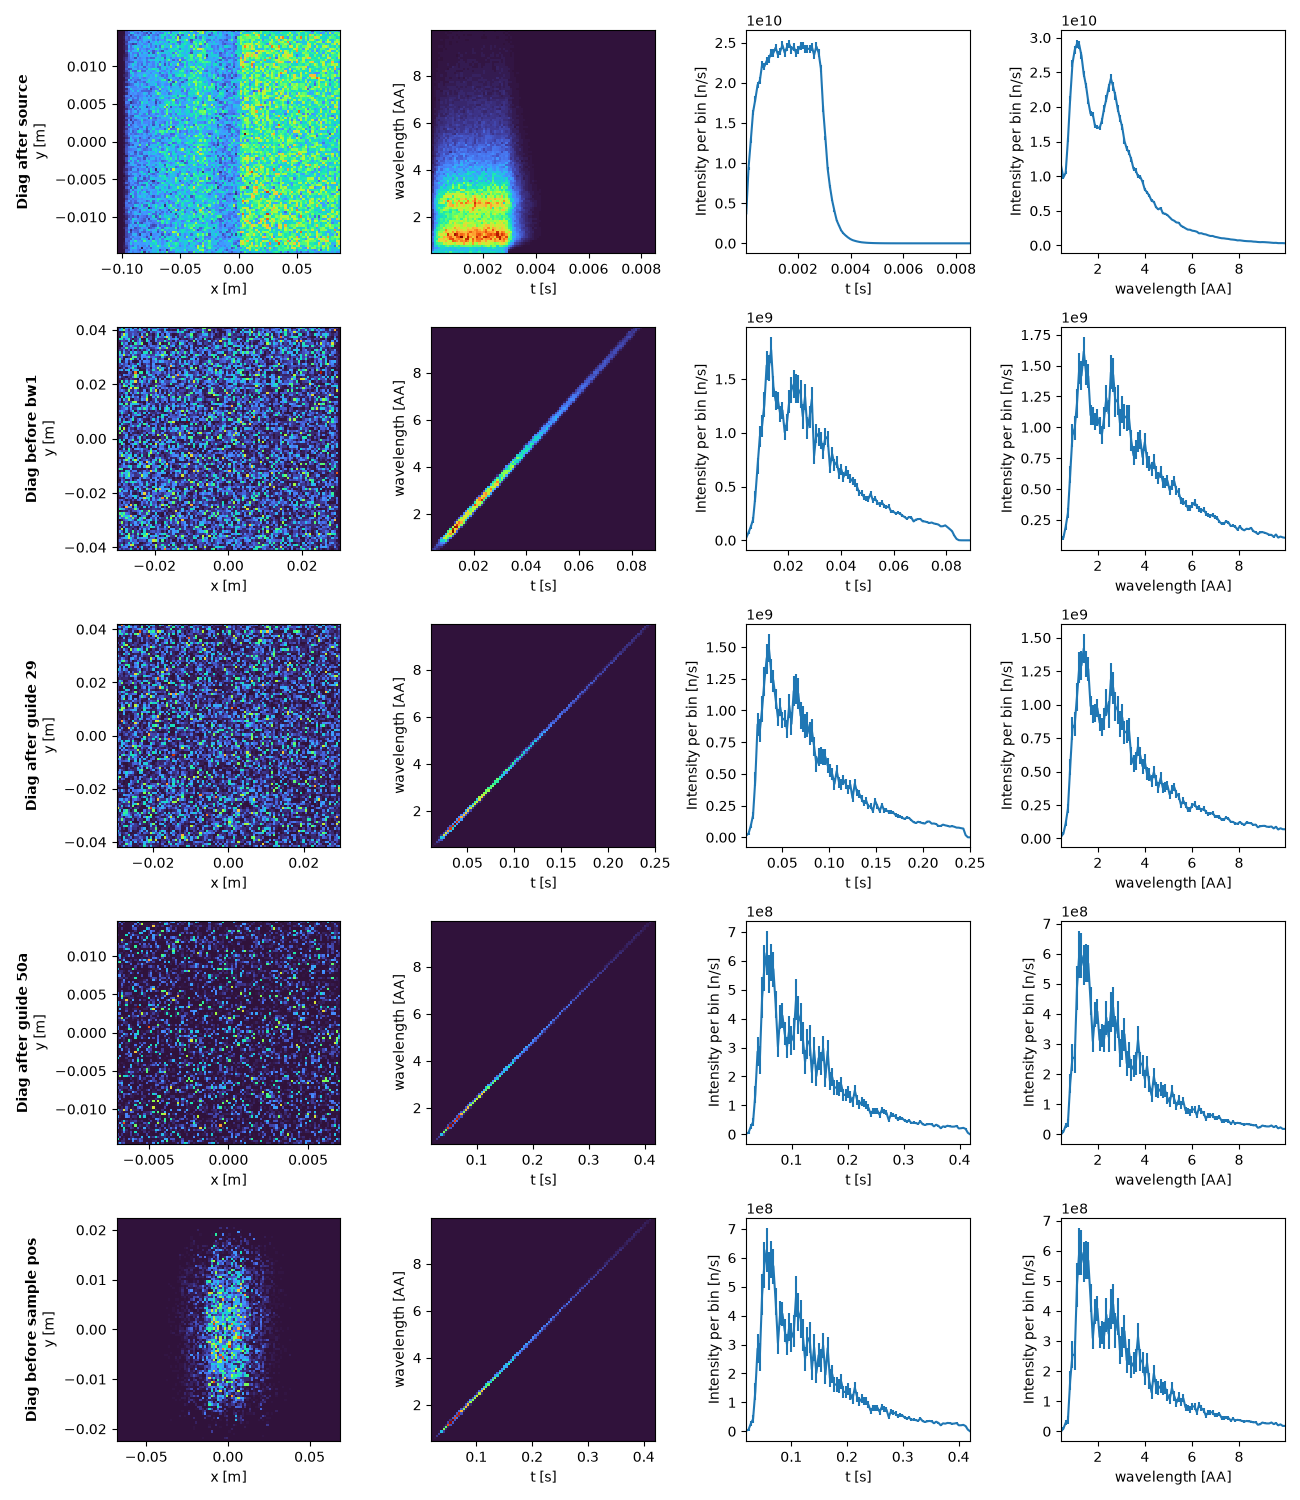
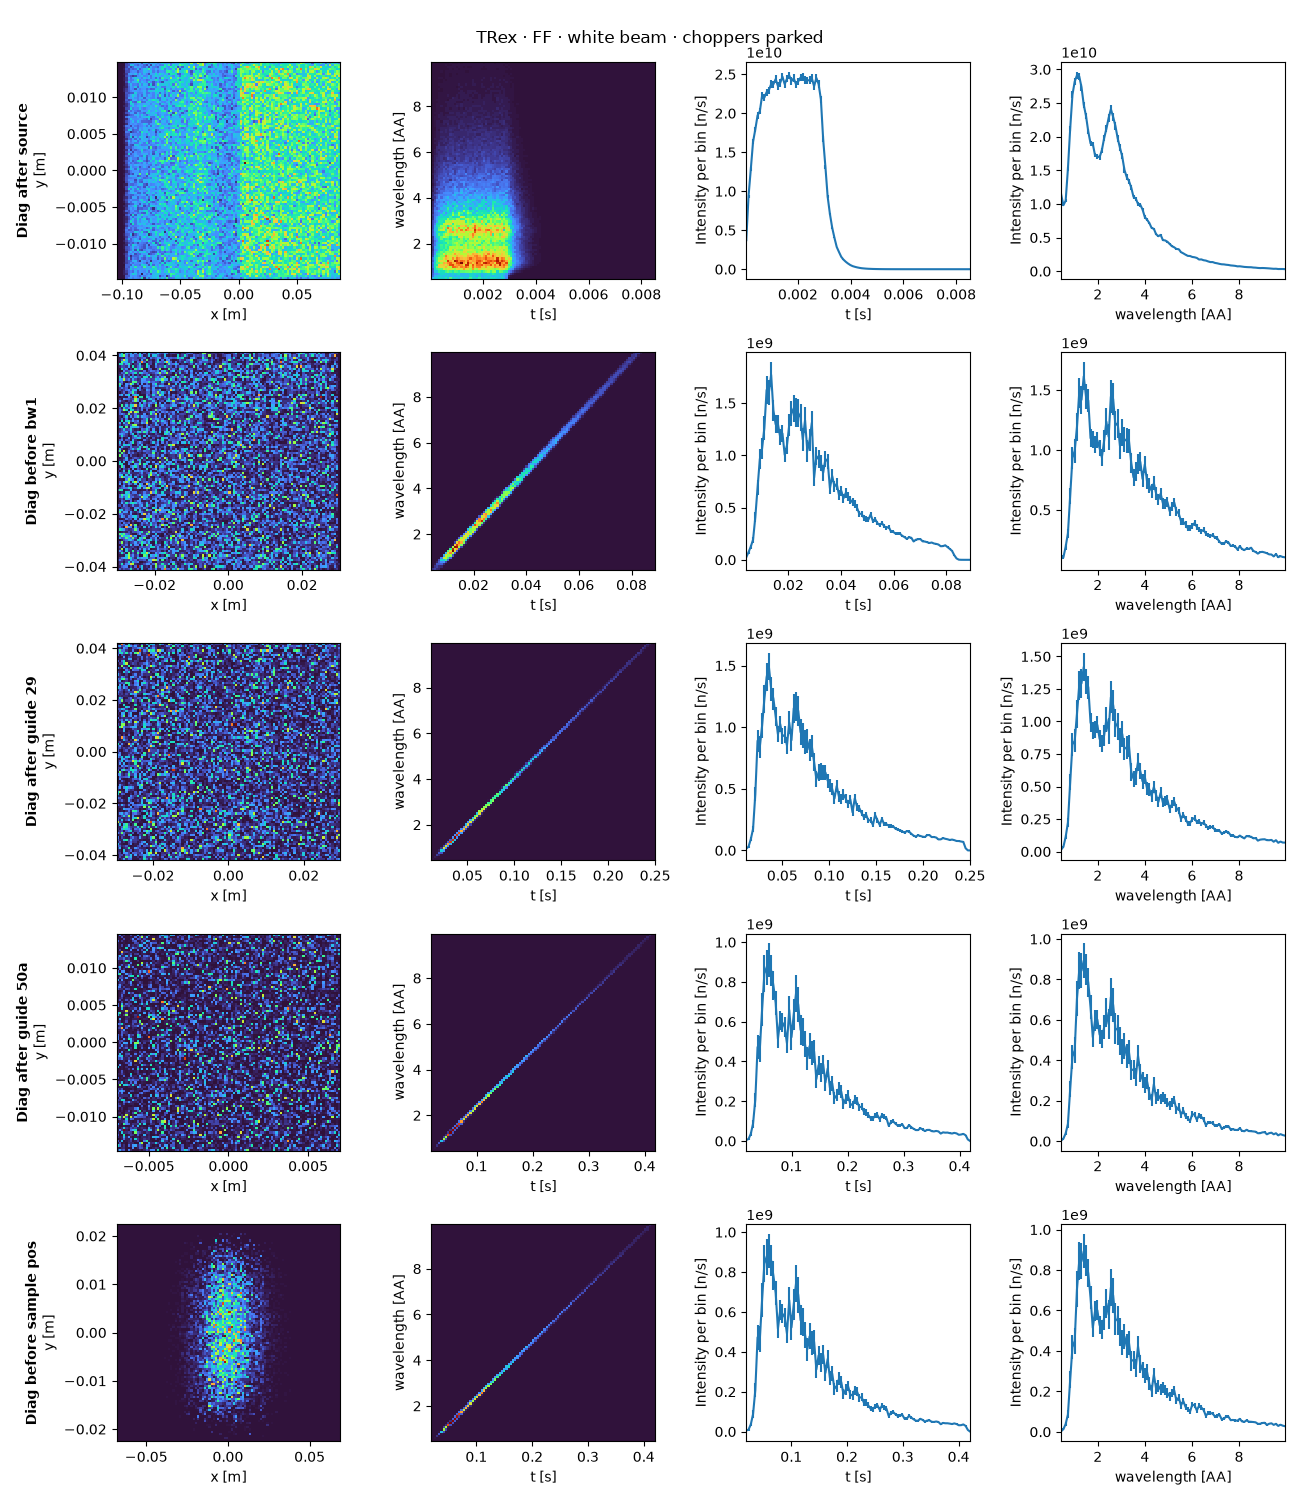
Park the choppers of the T-Rex diagnostics with rrm 0, and title McStasScript's diagnostics plot
guides_diagnostics drops ParkedTRex for TRex with lambda0 None and rrm 0,
which parks every disk on its wide slit, not at 0 deg. TRexWithVanadium
drops its own parking for rrm 0, and refuses turning choppers.
McStasScriptDiagnostics.plot titles its figure with the instrument's
running_conditions. The how-to page and its figures follow.

diff --git a/src/mcdgs/diagnostics/trex/solid_angles.py b/src/mcdgs/diagnostics/trex/solid_angles.py
@@ -23,7 +23,6 @@ module for them::
 """
 
 import math
-from dataclasses import replace
 from pathlib import Path
 
 import matplotlib.pyplot as plt
@@ -31,10 +30,8 @@ import numpy as np
 import scipp as sc
 from matplotlib.figure import Figure
 
-from mcdgs.core import InstrParam
 from mcdgs.diagnostics import cli
 from mcdgs.diagnostics.trex.elastic_plane import pixel_solid_angle
-from mcdgs.instruments.trex.choppers import DISKS
 from mcdgs.instruments.trex.detectors import (
     BANANA_CENTER_Y,
     BANANA_HEIGHT,
@@ -57,7 +54,8 @@ RUN = f"{NAME}_run"  # the run folder
 FOCUS_MARGIN = 1.0  # deg, the focusing window of the sample is this much wider than the detector
 SAMPLE_RADIUS = 0.01  # m, a thin cylinder: little of what it scatters is absorbed on the way out
 SAMPLE_SPLIT = 10  # McStas SPLIT on the sample: each neutron reaching it is repeated this often
-WHITE_BEAM = Params(lambda0=None)  # no central wavelength: the band is not limited
+# no central wavelength, the band is not limited, and every chopper parked on its wide slit (FF)
+WHITE_BEAM = Params(lambda0=None, rrm=0)
 # s, the width of a time bin of the monitors near the sample: the white beam takes 0.4 s to
 # pass them, which the bins of T-Rex, made for one sub-pulse, would split into 80000
 MONITOR_TIME_RESOLUTION = 1e-3
@@ -104,10 +102,9 @@ class TRexWithVanadium(TRex):
 
     The sample is that of :func:`.vanadium`, a cylinder 10 mm high, thinned to a radius of
     ``SAMPLE_RADIUS``, which scatters towards the window of
-    :func:`detector_window` only, split ``SAMPLE_SPLIT`` times. Each disk stands still
-    (``nu = 0``) with the slit of the mode on the beam, turned by :meth:`.TRexDisk.phase_from_mode`:
-    the wide ones in ``"FF"``. There are no instrument parameters ``nu_<name>`` and
-    ``delay_<name>``.
+    :func:`detector_window` only, split ``SAMPLE_SPLIT`` times. With ``rrm`` 0, each disk stands
+    still (``nu = 0``) with the slit of the mode on the beam, turned by
+    :meth:`.TRexDisk.phase_from_mode`: the wide ones in ``"FF"``.
 
     The time and wavelength monitors near the sample (pre-sample, beamstop and sample) span the
     whole band, with time bins of ``MONITOR_TIME_RESOLUTION``.
@@ -119,12 +116,20 @@ class TRexWithVanadium(TRex):
     ----------
     params:
         Control parameters. ``lambda0`` gives the band of the beam, ``None`` for the white
-        beam, and ``mode`` the slit each disk is parked on.
+        beam, and ``mode`` the slit each disk is parked on. ``rrm`` must be 0, which parks the
+        choppers.
+
+    Raises
+    ------
+    ValueError
+        If ``rrm`` is not 0: the choppers would turn.
     """
 
     name = "trex_vanadium"  # the McStas instrument name
 
     def __init__(self, params: Params = WHITE_BEAM) -> None:
+        if params.rrm != 0:
+            raise ValueError(f"rrm {params.rrm} is not 0: the choppers would turn")
         sample = vanadium(
             name="sample", radius=SAMPLE_RADIUS, split=SAMPLE_SPLIT, **detector_window()
         )
@@ -133,19 +138,11 @@ class TRexWithVanadium(TRex):
         for monitor in (pre_sample_monitor, beamstop_monitor, sample_monitor):
             wide = monitor(lambda_limits=band, time_resolution=MONITOR_TIME_RESOLUTION)
             setattr(self, monitor.__name__, wide)
-        for name in DISKS:
-            angle = DISKS[name].phase_from_mode(params.mode)
-            parked = replace(getattr(self, name), nu=0, delay=0, park_angle=angle)
-            setattr(self, name, parked)
-
-    def _chopper_instr_params(self) -> list[InstrParam]:
-        """Return no instrument parameters for the choppers: they are parked."""
-        return []
 
 
 def define_instrument() -> TRexWithVanadium:
     """Return the instrument of this diagnostic: :class:`TRexWithVanadium`, in the white beam."""
-    params = Params(lambda0=None)  # the white beam: no central wavelength
+    params = WHITE_BEAM  # no central wavelength, every chopper parked
     return TRexWithVanadium(params=params)
 
 

diff --git a/src/mcdgs/diagnostics/trex/guides_diagnostics.py b/src/mcdgs/diagnostics/trex/guides_diagnostics.py
@@ -1,7 +1,7 @@
 """McStasScript's diagnostics of T-Rex: the beam along the guides, and the intensity before each component.
 
-:func:`main` runs T-Rex in the white beam, 0.1 to 10 Å, with every chopper parked at 0 Hz
-(:class:`ParkedTRex`), with :class:`.McStasScriptDiagnostics`, twice, and writes:
+:func:`main` runs T-Rex in the white beam, 0.1 to 10 Å, with every chopper parked at 0 Hz on
+the slit of the mode, ``rrm`` 0, with :class:`.McStasScriptDiagnostics`, twice, and writes:
 
 - ``trex_guides_diagnostics.png``: the beam after the source, before the first bandwidth chopper,
   at the end of the curved guide, at the end of the straight guide and at the sample position;
@@ -16,9 +16,7 @@ They are the figures of the how-to page on McStasScript's diagnostics. Run the m
 
 from pathlib import Path
 
-from mcdgs.core import InstrParam
 from mcdgs.diagnostics import cli
-from mcdgs.instruments.trex.choppers import DISKS
 from mcdgs.instruments.trex.model import Params, TRex
 from mcdgs.mcstas import McStasScriptDiagnostics
 
@@ -26,31 +24,11 @@ NAME = "trex_guides_diagnostics"
 
 
 # --8<-- [start:instrument]
-class ParkedTRex(TRex):
-    """:class:`.TRex` with every chopper parked, at 0 Hz.
-
-    ``NXdisk_chopper`` then stands still with its zero mark at ``park_angle``, 0, where each disk
-    of T-Rex has an opening on the beam, which passes most of it, unchopped. With no chopper to
-    phase, it runs with ``lambda0`` ``None``, the white beam.
-    """
-
-    def _chopper_instr_params(self) -> list[InstrParam]:
-        """Return the frequency, the delay and the park angle of every chopper, all 0: parked."""
-        return [
-            p
-            for name in DISKS
-            for p in (
-                InstrParam(f"nu_{name}", 0.0, "Hz", f"rotation frequency of chopper {name}"),
-                InstrParam(f"delay_{name}", 0.0, "s", f"delay of chopper {name}"),
-                InstrParam(f"park_{name}", 0.0, "deg", f"park angle of chopper {name}"),
-            )
-        ]
-
-
-def define_instrument() -> ParkedTRex:
+def define_instrument() -> TRex:
     """Return the instrument of this diagnostic: T-Rex in the white beam, its choppers parked."""
-    params = Params(lambda0=None)  # the white beam, 0.1 to 10 Å; the rest as default
-    return ParkedTRex(params=params)
+    # the white beam, 0.1 to 10 Å, every chopper parked on its wide slit (FF); the rest as default
+    params = Params(lambda0=None, rrm=0)
+    return TRex(params=params)
 
 
 # --8<-- [end:instrument]
@@ -64,8 +42,8 @@ def main(
 ) -> list[Path]:
     """Run T-Rex with McStasScript's diagnostics, then for its diagram, and save both figures.
 
-    The instrument is :class:`ParkedTRex` in the white beam, so the beam reaches the sample
-    position unchopped, but for what the parked disks block.
+    The instrument is :class:`.TRex` in the white beam with its choppers parked, ``rrm`` 0, so
+    the beam reaches the sample position unchopped, but for what the parked disks block.
     The runs go to the run folders ``trex_guides_diagnostics`` and
     ``trex_guides_diagnostics_analysis``, replaced on every run.
 

diff --git a/tests/diagnostics/test_trex_guides_diagnostics.py b/tests/diagnostics/test_trex_guides_diagnostics.py
@@ -7,6 +7,7 @@ from types import SimpleNamespace
 import matplotlib.pyplot as plt
 
 from mcdgs.diagnostics.trex import guides_diagnostics
+from mcdgs.instruments.trex.choppers import DISKS
 from mcdgs.mcstas import McStasScriptDiagnostics
 
 
@@ -43,5 +44,7 @@ def test_the_instrument_is_the_white_beam_with_every_chopper_parked():
     trex = guides_diagnostics.define_instrument()
     assert trex.params.lambda0 is None
     assert (trex.source.Lmin, trex.source.Lmax) == (0.1, 10.0)
-    choppers = {p.name: p.value for p in trex.instr_params if p.name.startswith(("nu_", "delay_"))}
-    assert len(choppers) == 12 and set(choppers.values()) == {0.0}
+    instr_param_dict = {p.name: p.value for p in trex.instr_params}
+    for name, disk in DISKS.items():
+        assert (instr_param_dict[f"nu_{name}"], instr_param_dict[f"delay_{name}"]) == (0, 0)
+        assert instr_param_dict[f"park_{name}"] == disk.phase_from_mode("FF")

diff --git a/src/mcdgs/mcstas/mcstasscript_diagnostics.py b/src/mcdgs/mcstas/mcstasscript_diagnostics.py
@@ -160,6 +160,8 @@ class McStasScriptDiagnostics:
     def plot(self) -> Figure:
         """Draw the last run, a row per point and a column per view, on a new figure.
 
+        The title is the instrument's :meth:`.Instrument.running_conditions`.
+
         Returns
         -------
         :
@@ -173,7 +175,10 @@ class McStasScriptDiagnostics:
         if self.diagnostics is None:
             raise RuntimeError("run the diagnostics before plotting them")
         self.diagnostics.plot()  # draws on a new figure, which it does not return
-        return plt.gcf()
+        figure = plt.gcf()
+        figure.suptitle(self.simulation.instrument.running_conditions())
+        figure.tight_layout()  # McStasScript's axes reach the top: room for the title
+        return figure
 
     def run_analysis(
         self,

diff --git a/tests/mcstas/test_mcstasscript_diagnostics.py b/tests/mcstas/test_mcstasscript_diagnostics.py
@@ -77,13 +77,16 @@ def test_nothing_runs_or_plots_without_points_and_views(tmp_path):
     assert not any(tmp_path.iterdir())  # no run folder
 
 
-def test_plot_returns_the_figure_mcstasscript_draws(tmp_path, fake_diagnostics):
+def test_plot_returns_the_figure_mcstasscript_draws_titled_with_the_running_conditions(
+    tmp_path, fake_diagnostics
+):
     diag = McStasScriptDiagnostics(TRex(), Workspace(tmp_path))
     diag.add_point(after="source")
     diag.add_view("l")
     diag.run()
     fig = diag.plot()
     assert fig is plt.gcf()
+    assert fig.get_suptitle() == TRex().running_conditions()
     plt.close(fig)
 
 

diff --git a/docs/how-to/run-mcstasscript-diagnostics.md b/docs/how-to/run-mcstasscript-diagnostics.md
@@ -15,9 +15,7 @@ of this page from `TRex` in the white beam, 0.1 to 10 Å, with every chopper par
 [extraction guides](../instruments/trex/extraction.md) show both tools on the first 6 m of T-Rex.
 
 ```python
-from mcdgs.core import InstrParam
 from mcdgs.diagnostics import cli
-from mcdgs.instruments.trex.choppers import DISKS
 from mcdgs.instruments.trex.model import Params, TRex
 from mcdgs.mcstas import McStasScriptDiagnostics
 ```
@@ -36,18 +34,18 @@ Add the points, where the rays are recorded, and the views, how each point is dr
 
 The code is that of its `main`, where `NAME` is `"trex_guides_diagnostics"`, the name of the run
 folder and of the figure, `ncount` is 1e6 and `seed` is 1, and `folder` is where the figures go.
-`ParkedTRex` gives every chopper, `nu_bw1` to `nu_mc2`, a frequency and a delay of 0, so that the
-beam reaches the sample position unchopped. With no chopper to phase, it runs with `lambda0` set
-to `None`, the white beam, where `TRex` would need a wavelength to phase its choppers to.
+`rrm` 0 parks every chopper, `bw1` to `mc2`, with the slit of the mode on the beam: the wide
+slits of `"FF"`, the default. The beam then reaches the sample position unchopped. With no
+chopper to phase, it runs with `lambda0` set to `None`, the white beam, where turning choppers
+would need a wavelength to be phased to.
 
 !!! note "A chopper at 0 Hz is parked, not open"
 
-    At 0 Hz, McStas's `NXdisk_chopper` stands still with its zero mark at `park_angle`, 0 by
-    default, and a ray passes only through an opening that happens to be in front of the beam.
-    On T-Rex an opening is there on every disk, but some parked disks still block part of the
-    beam. With `lambda0` at 2 Å and 1e5 neutrons, about 11000 rays reach `ps1` and 7200 reach
-    `mc1`; 9 reach the sample position with the choppers turning, and about 4100 with them
-    parked.
+    At 0 Hz, McStas's `NXdisk_chopper` stands still with its zero mark at `park_angle`, and a ray
+    passes only through the opening in front of the beam. `rrm` 0 sets `park_<name>` to put the
+    slit of the mode there. With `lambda0` at 2 Å and 1e5 neutrons, about 11000 rays reach `ps1`
+    and 7200 reach `mc1`; 9 reach the sample position with the choppers turning, and about 6300
+    with them parked.
 
 - A point is just `before` or just `after` a component, by its name in the instrument:
   `list(TRex().components)` gives them all. A name the instrument does not have raises a
@@ -61,8 +59,8 @@ to `None`, the white beam, where `TRex` would need a wavelength to phase its cho
 - `run` takes the instrument parameters as keywords, like
   [`Simulation.run`](run-a-simulation.md#one-run), and returns the record of the run.
 
-Then draw it, one row per point and one column per view, and save it with `save_figure`, which
-also closes it:
+Then draw it, one row per point and one column per view, under the instrument's
+`running_conditions()`, and save it with `save_figure`, which also closes it:
 
 <!-- fmt:off -->
 ```python
@@ -83,7 +81,7 @@ wavelength against time is a band. The band keeps the length of the pulse while 
 grows with the distance, so it looks thinner at every point. Before the first bandwidth chopper,
 the beam fills the guide, ±0.03 m by ±0.04 m, about 20 times lower than after the source. From
 there to the sample position, the spectrum keeps its two peaks, and drops by a factor of about
-2.5; 76260 of the 1e6 rays reach the sample position. There, the beam is a spot about 0.04 m
+2.3; 114224 of the 1e6 rays reach the sample position. There, the beam is a spot about 0.04 m
 across.
 
 !!! warning "Every ray is kept, so keep `ncount` low"
@@ -99,8 +97,8 @@ across.
     the event monitors of the instrument, such as the `banana_detector` of T-Rex. A list with
     exactly one ray fails the run as it is read. Past the turning choppers of T-Rex few rays are
     left: at 1e5 neutrons, about 9 reach `sample_pos` with the bender out, and 1 reaches the
-    detector with it in. Put the points before the choppers, park them, or run enough neutrons
-    for the detector.
+    detector with it in. Put the points before the choppers, park them with `rrm` 0, or run
+    enough neutrons for the detector.
 
 ### The same diagnostics on more runs
 
